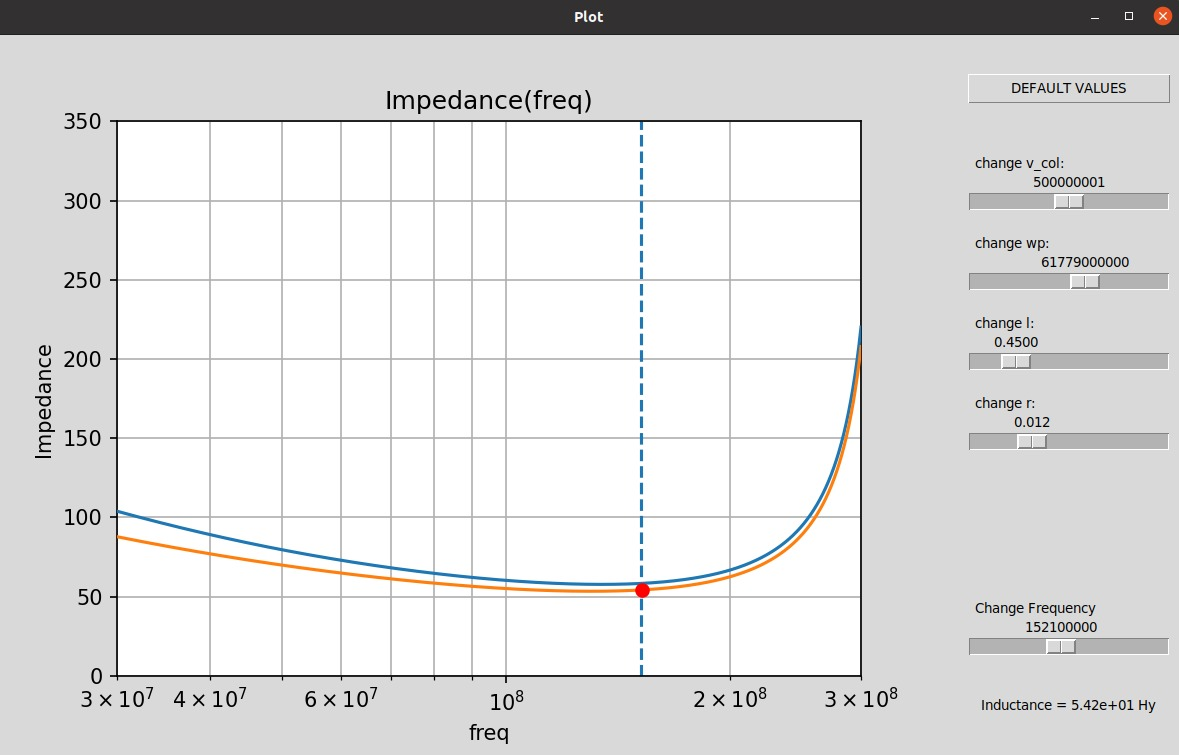
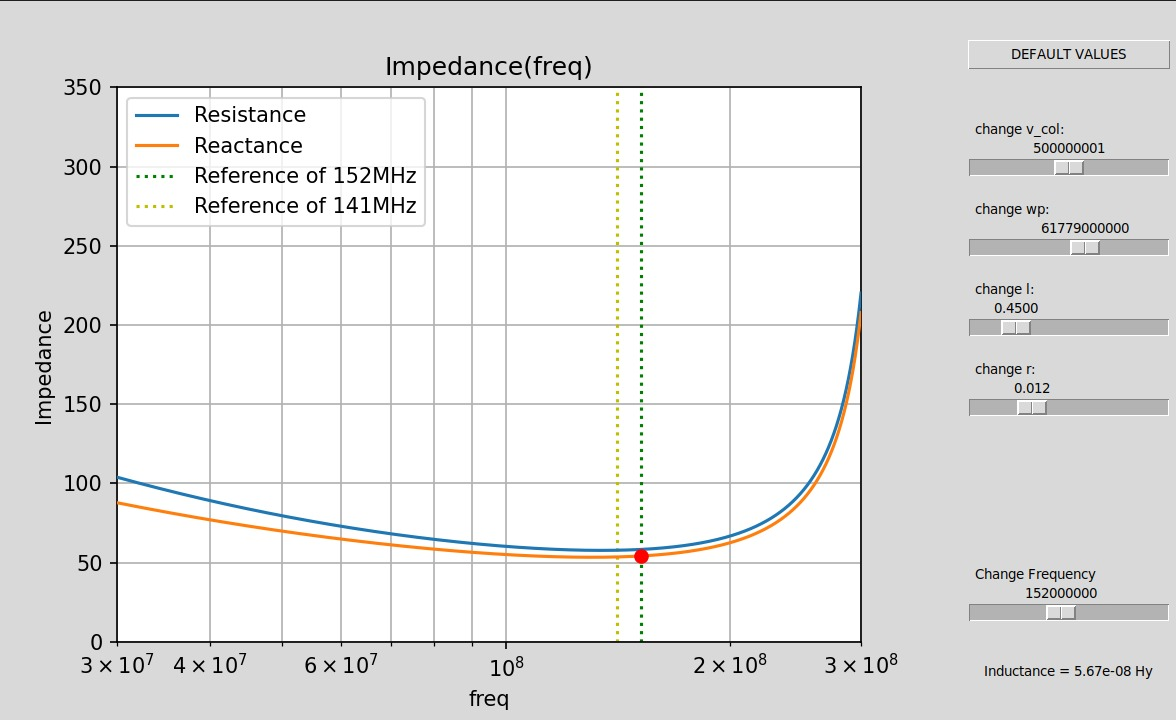
fixes

diff --git a/main.py b/main.py
@@ -163,8 +163,8 @@ class Main(Animation):
         self.freq = 152e6
         self.reactance = self.zint(self.freq).imag*self.leff(self.freq).real
 
-        line, = self.ax.plot(self.x1, self.y1)
-        line2, = self.ax.plot(self.x2, self.y2)
+        line, = self.ax.plot(self.x1, self.y1, label="Resistance")
+        line2, = self.ax.plot(self.x2, self.y2, label="Reactance")
         line3, = self.ax.plot(self.freq, self.reactance, "or")
 
         self.ax.set_xlim(self.x1[0], self.x1[-1])
@@ -173,8 +173,11 @@ class Main(Animation):
         self.ax.set_ylabel("Impedance")
         self.ax.set_title("Impedance(freq)")
         self.ax.grid(True,which="both")
-        self.ax.axvline(x=152e6, ls='--')
+        self.ax.axvline(x=152e6, ls=':', c='g', label="Reference of 152MHz")
+        self.ax.axvline(x=141e6, ls=':', c='y', label="Reference of 141MHz")
         self.ax.set_xscale("log")
+
+        leg = self.ax.legend(loc='upper left')
 
         self.line = line
         self.line2 = line2
@@ -218,7 +221,7 @@ class Main(Animation):
         print("Lint = {:.4e}".format(self.reactance/(2*pi*self.freq)),"Hy")
         print("XLint = {:.4e}".format(self.reactance),"\u03A9")
         #print("Rint = {:.4e}".format(self.reactance),"\u03A9")
-        indText = "Inductance ={: .2e}".format(self.reactance)+" Hy"
+        indText = "Inductance ={: .2e}".format(self.reactance/(2*pi*self.freq))+" Hy"
         self.inductanceLabel.configure(text=indText)
 
         self.line.set_ydata(self.y1)
